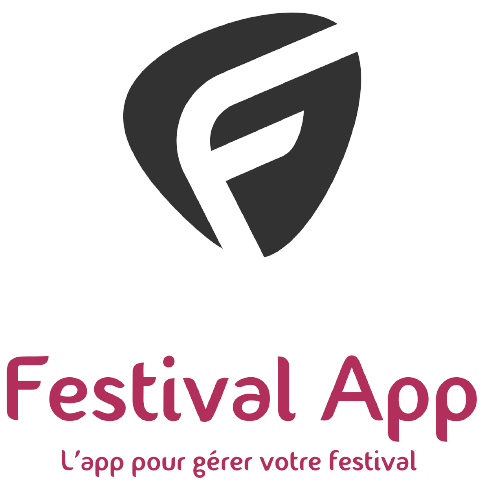
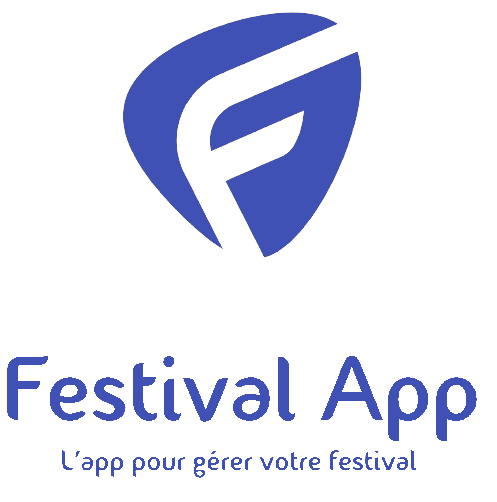
Update colors and images

diff --git a/src/app/assignments/components/assignments-list/assignments-list.component.html b/src/app/assignments/components/assignments-list/assignments-list.component.html
@@ -5,26 +5,69 @@
 <mat-card>
   <mat-card-title-group>
     <div class="form">
-      <mat-form-field appearance="fill">
-        <input matInput type="text" [formControl]="searchCtrl">
-        <mat-icon matSuffix>search</mat-icon>
-      </mat-form-field>
-      <mat-form-field appearance="fill">
-        <mat-select [formControl]="searchTypeCtrl">
-          <mat-option *ngFor="let option of searchTypeOptions" [value]="option.value">{{ option.label }}</mat-option>
-        </mat-select>
-      </mat-form-field>
+      <div class="form-fields">
+        <mat-form-field appearance="fill">
+          <input matInput type="text" [formControl]="searchCtrl">
+          <mat-icon matSuffix>search</mat-icon>
+        </mat-form-field>
+        <mat-form-field appearance="fill">
+          <mat-select [formControl]="searchTypeCtrl">
+            <mat-option *ngFor="let option of searchTypeOptions" [value]="option.value">{{ option.label }}</mat-option>
+          </mat-select>
+        </mat-form-field>
+      </div>
+      <button mat-icon-button [matMenuTriggerFor]="menu" aria-label="Example icon-button with a menu">
+        <mat-icon>filter_alt</mat-icon>
+      </button>
+      <mat-menu #menu="matMenu">
+        <button mat-menu-item (click)="onNoFilter()">
+          <mat-icon>filter_alt_off</mat-icon>
+          <span>Aucun</span>
+        </button>
+        <button mat-menu-item>
+          <mat-icon>calendar_month</mat-icon>
+          <span>Par créneau horaire</span>
+        </button>
+        <button mat-menu-item>
+          <mat-icon>storefront</mat-icon>
+          <span>Par zone</span>
+        </button>
+      </mat-menu>
     </div>
   </mat-card-title-group>
   <mat-spinner *ngIf="loading$ | async" class="spinner"></mat-spinner>
-  <mat-nav-list *ngIf="assignments$ | async as assignments">
-    <a *ngFor="let assigment of assignments" mat-list-item [routerLink]="assigment._id.toString()">
+
+  <div *ngIf="filter.noFilter">
+    <mat-nav-list *ngIf="assignments$ | async as assignments">
+      <a *ngFor="let assigment of assignments" mat-list-item [routerLink]="assigment._id.toString()">
         <h1 matLine class="name" >
           {{ assigment.benevole.prenom | uppercase }} {{ assigment.benevole.nom | uppercase }} - {{ assigment.jeu.nom | uppercase }}
         </h1>
         <p matLine class="date">
           {{ assigment.date_deb | date: "dd/MM/yyyy 'à' HH'h'mm" }} au {{ assigment.date_fin | date: "dd/MM/yyyy 'à' HH'h'mm" }}
         </p>
-    </a>
-  </mat-nav-list>
+      </a>
+    </mat-nav-list>
+  </div>
+
+  <div *ngIf="filter.areas">
+    <mat-nav-list *ngIf="areas$ | async as areas">
+      <a *ngFor="let area of areas" mat-list-item (click)="goToArea()">
+        <h1 matLine class="name" >
+          {{ area.nom | uppercase }}
+        </h1>
+      </a>
+    </mat-nav-list>
+  </div>
+
+  <div *ngIf="filter.hours">
+    <mat-nav-list *ngIf="hours$ | async as hours">
+      <a *ngFor="let hour of hours" mat-list-item (click)="goToHour()" >
+        <h1 matLine class="name" >
+          {{ hour | date: "dd/MM/yyyy 'à' HH'h'mm" }}
+        </h1>
+      </a>
+    </mat-nav-list>
+  </div>
+
 </mat-card>

diff --git a/src/app/assignments/components/assignments-list/assignments-list.component.ts b/src/app/assignments/components/assignments-list/assignments-list.component.ts
@@ -1,5 +1,5 @@
 import { Component, OnInit } from '@angular/core';
-import {combineLatest, map, Observable, startWith, tap} from "rxjs";
+import {combineLatest, map, Observable, startWith} from "rxjs";
 import {FormBuilder, FormControl} from "@angular/forms";
 import {Router} from "@angular/router";
 import {Assignment} from "../../models/assignment.model";
@@ -15,9 +15,11 @@ import {Hours} from "../../enums/hours.enum";
 })
 export class AssignmentsListComponent implements OnInit {
   loading$!: Observable<boolean>;
+
   assignments$!: Observable<Assignment[]>
   areas$!: Observable<Area[]>;
-  hours!: Hours[];
+  hours$!: Observable<Date[]>;
+
   searchCtrl!: FormControl;
   searchTypeCtrl!: FormControl;
   searchTypeOptions!: {
@@ -25,11 +27,22 @@ export class AssignmentsListComponent implements OnInit {
     label: string
   }[];
 
+  filter!: {
+    noFilter: boolean,
+    areas: boolean,
+    hours: boolean,
+  }
+
   constructor(private assignmentsService: AssignmentService,
               private formBuilder: FormBuilder,
               private router: Router) { }
 
   ngOnInit(): void {
+    this.filter = {
+      noFilter: true,
+      areas: false,
+      hours: false,
+    }
     this.initForm();
     this.assignmentsService.getAssignmentsFromServer();
     this.initObservables();
@@ -78,4 +91,17 @@ export class AssignmentsListComponent implements OnInit {
     this.router.navigateByUrl("/assignments/add")
   }
 
+  onNoFilter() {
+    this.filter.noFilter = true;
+    this.filter.areas = false;
+    this.filter.hours = false;
+  }
+
+  goToArea() {
+
+  }
+
+  goToHour() {
+
+  }
 }

diff --git a/src/app/assignments/components/assignment-form/assignment-form.component.html b/src/app/assignments/components/assignment-form/assignment-form.component.html
@@ -82,10 +82,10 @@
   </mat-card>
 
   <mat-card-actions *ngIf="mainForm.valid">
-    <button *ngIf="!currentAssignmentId" mat-flat-button color="primary" (click)="onSubmitForm()" [disabled]="loading$ | async" matTooltip="Enregister le nouveau jeu" matTooltipPosition="left">
+    <button *ngIf="!currentAssignmentId" mat-flat-button color="primary" (click)="onSubmitForm()" [disabled]="loading$ | async" matTooltip="Enregister la nouvelle affectation" matTooltipPosition="left">
       <mat-icon class="btn_icon">save</mat-icon>
     </button>
-    <button *ngIf="currentAssignmentId" mat-flat-button color="primary" (click)="onSubmitForm()" [disabled]="loading$ | async" matTooltip="Sauvegarder le jeu" matTooltipPosition="left">
+    <button *ngIf="currentAssignmentId" mat-flat-button color="primary" (click)="onSubmitForm()" [disabled]="loading$ | async" matTooltip="Sauvegarder l'affectation'" matTooltipPosition="left">
       <mat-icon class="btn_icon">save</mat-icon>
     </button>
   </mat-card-actions>

diff --git a/src/app/material/material.module.ts b/src/app/material/material.module.ts
@@ -14,6 +14,7 @@ import {MatSelectModule} from "@angular/material/select";
 import {MatAutocompleteModule} from "@angular/material/autocomplete";
 import {MatDatepickerModule} from "@angular/material/datepicker";
 import {MatNativeDateModule} from "@angular/material/core";
+import {MatMenuModule} from "@angular/material/menu";
 
 @NgModule({
   exports: [
@@ -31,7 +32,8 @@ import {MatNativeDateModule} from "@angular/material/core";
     MatTooltipModule,
     MatAutocompleteModule,
     MatDatepickerModule,
-    MatNativeDateModule
+    MatNativeDateModule,
+    MatMenuModule
   ], providers: [
     MatDatepickerModule
   ]

diff --git a/src/app/assignments/components/assignments-list/assignments-list.component.scss b/src/app/assignments/components/assignments-list/assignments-list.component.scss
@@ -10,22 +10,27 @@
 }
 
 .name {
-  color: white;
+  color: $color-accent;
 }
 
 .date {
-  color: white;
+  color: $color-accent;
 }
 
 div {
-  border-bottom: lightgray thin solid;
+  border-bottom: $color-accent thin solid;
 }
 
 .form {
   width: 100%;
+  display: flex;
+  justify-content: space-between;
+}
+.form-fields {
+  width: 95%;
 }
 
-.form > mat-form-field {
+.form-fields > mat-form-field {
   width: 50%;
 }
 

diff --git a/src/app/assignments/assignment-routing.module.ts b/src/app/assignments/assignment-routing.module.ts
@@ -8,6 +8,8 @@ const routes: Routes = [
   { path: '', component: AssignmentsListComponent },
   { path: 'add', component: AssignmentFormComponent},
   { path: 'update/:id', component: AssignmentFormComponent},
+  { path: 'areas', component: AssignmentsListComponent},
+  { path: 'hours', component: AssignmentsListComponent},
   { path: ':id', component: SingleAssignmentComponent}
 ];
 

diff --git a/src/app/volunteers/components/single-volunteer/single-volunteer.component.scss b/src/app/volunteers/components/single-volunteer/single-volunteer.component.scss
@@ -1,3 +1,5 @@
+@import "../../../../assets/styles/colors";
+
 mat-card {
   text-align: center;
 }
@@ -17,5 +19,5 @@ button {
 .separator {
   margin: 15px auto;
   width: 90%;
-  border-bottom: lightgray thin solid;
+  border-bottom: $color-accent thin solid;
 }

diff --git a/src/app/core/components/error/error.component.scss b/src/app/core/components/error/error.component.scss
@@ -2,9 +2,11 @@
   display: flex;
   justify-content: center;
   align-items: center;
-  width: 100%;
+  max-height: 80%;
+  max-width: 100%;
 }
 
 img {
   margin: auto;
+  width: 40%;
 }

diff --git a/src/app/assignments/components/single-assignment/single-assignment.component.scss b/src/app/assignments/components/single-assignment/single-assignment.component.scss
@@ -13,7 +13,7 @@ button {
 .separator {
   margin: 15px auto;
   width: 90%;
-  border-bottom: lightgray thin solid;
+  border-bottom: $color-accent thin solid;
 }
 
 mat-card-content {

diff --git a/src/app/games/components/games-list/games-list.component.scss b/src/app/games/components/games-list/games-list.component.scss
@@ -10,11 +10,11 @@
 }
 
 .name {
-  color: white;
+  color: $color-accent;
 }
 
 div {
-  border-bottom: lightgray thin solid;
+  border-bottom: $color-accent thin solid;
 }
 
 .form {

diff --git a/src/app/volunteers/components/volunteers-list/volunteers-list.component.scss b/src/app/volunteers/components/volunteers-list/volunteers-list.component.scss
@@ -10,11 +10,11 @@
 }
 
 .name {
-  color: white;
+  color: $color-accent;
 }
 
 div {
-  border-bottom: lightgray thin solid;
+  border-bottom: $color-accent thin solid;
 }
 
 .form {

diff --git a/src/app/games/components/single-game/single-game.component.scss b/src/app/games/components/single-game/single-game.component.scss
@@ -17,5 +17,5 @@ button {
 .separator {
   margin: 15px auto;
   width: 90%;
-  border-bottom: lightgray thin solid;
+  border-bottom: $color-accent thin solid;
 }
